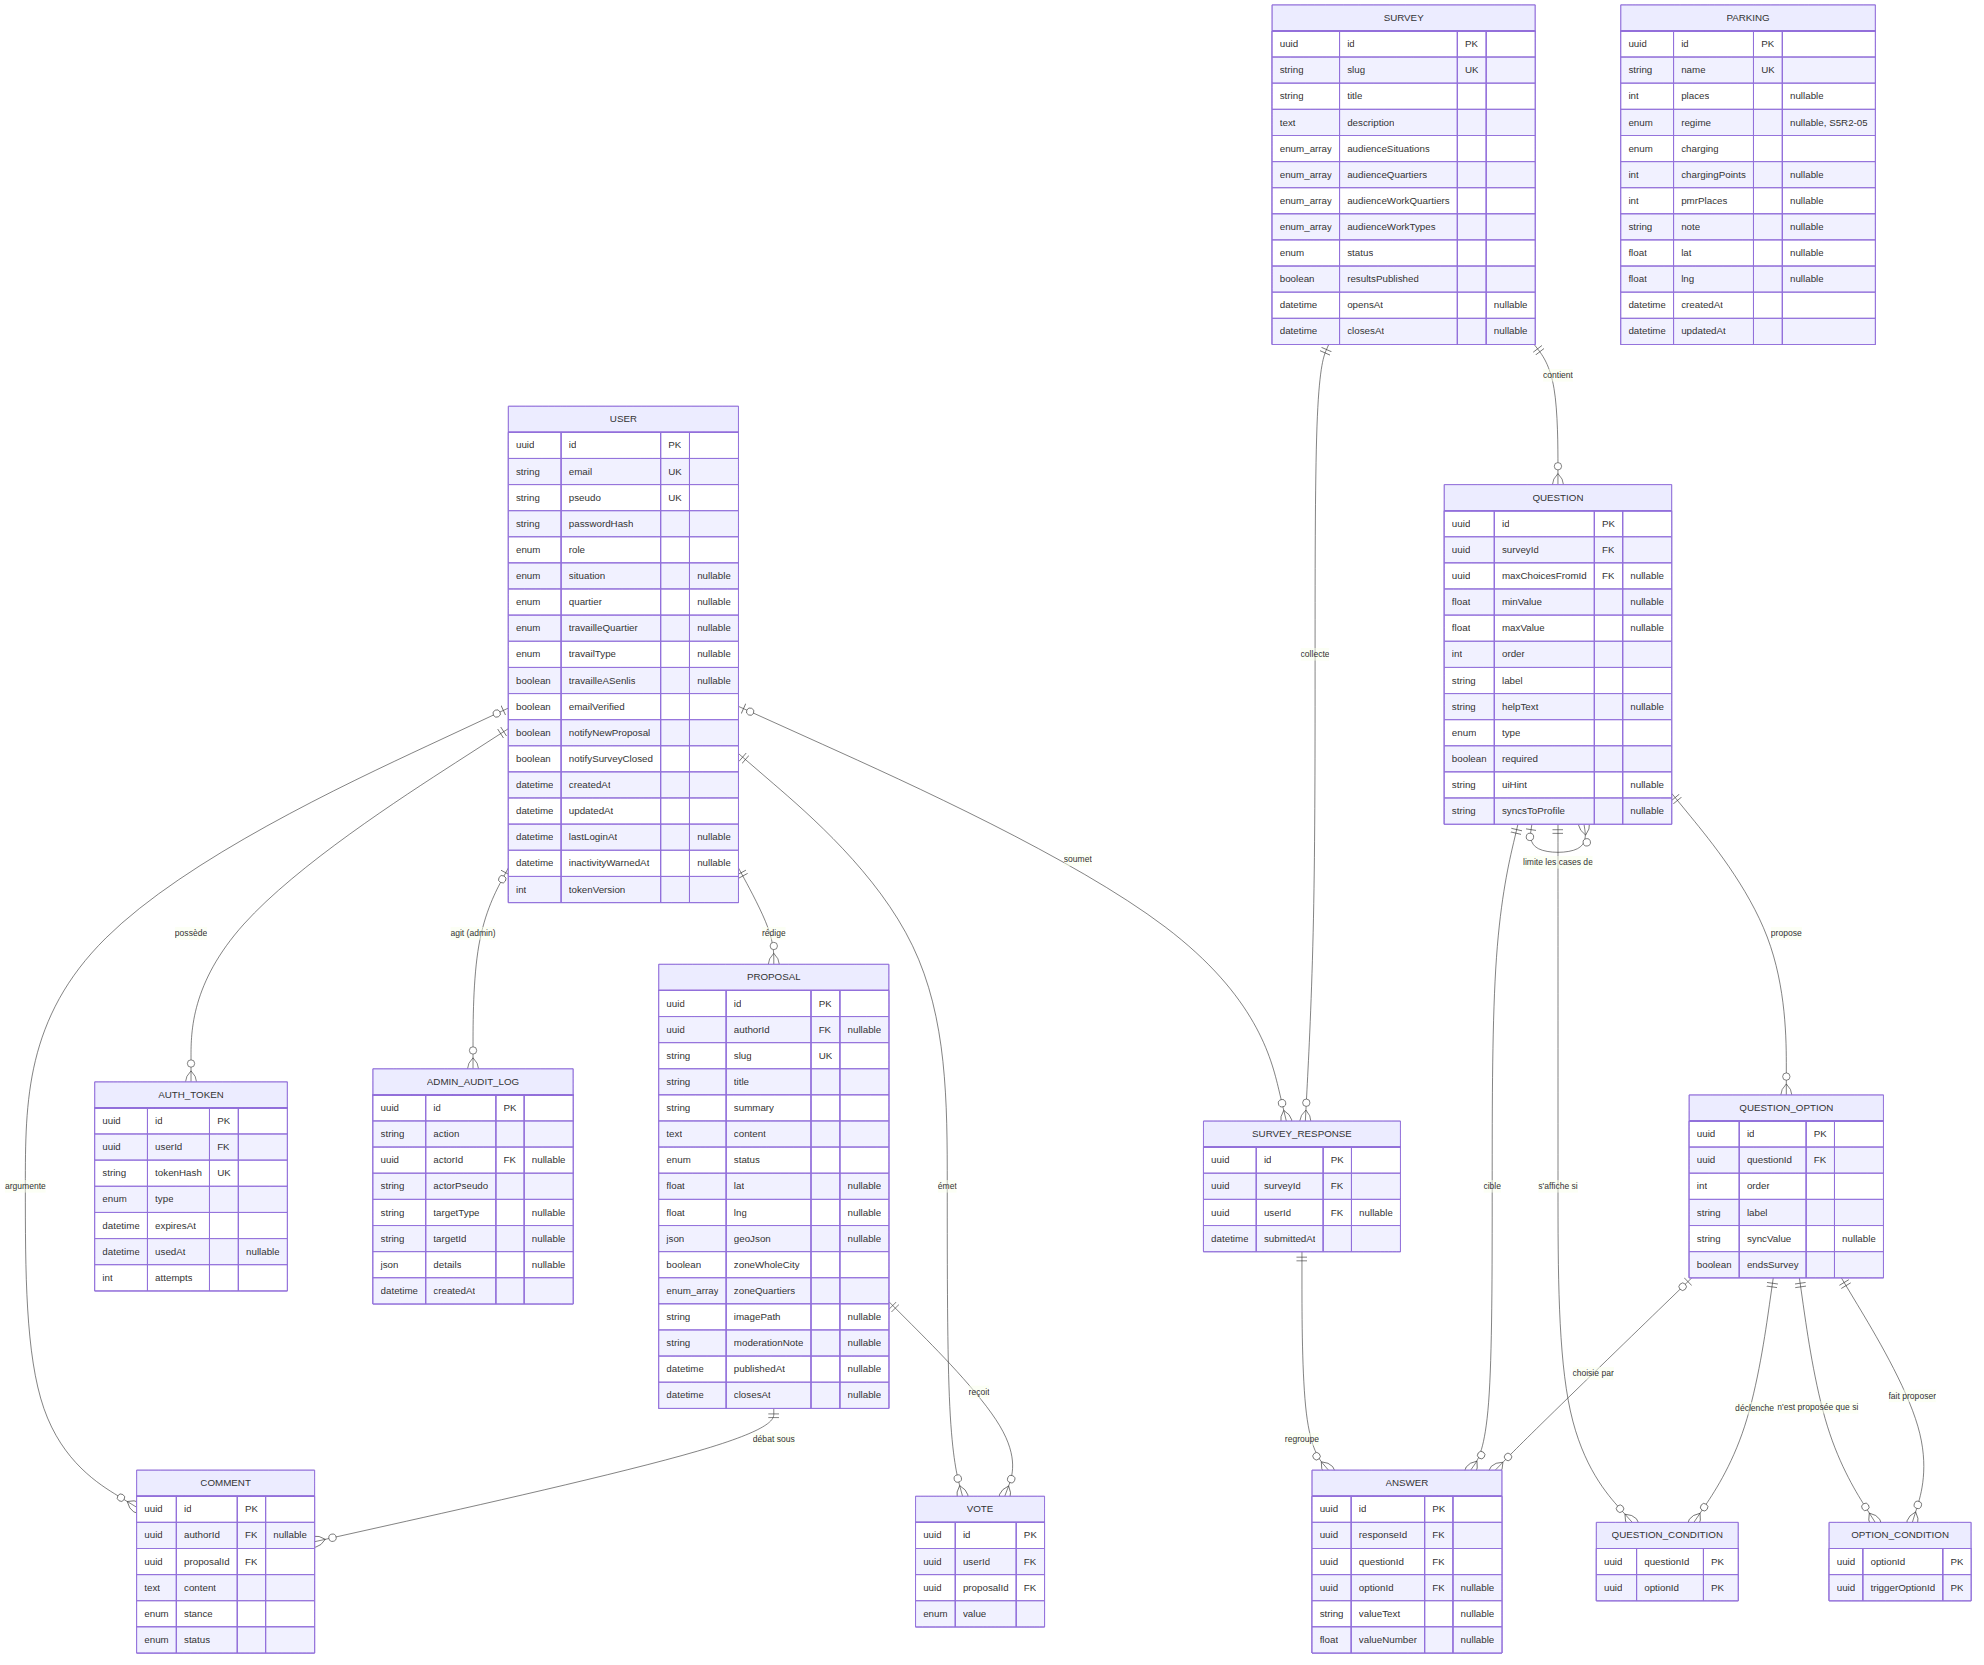
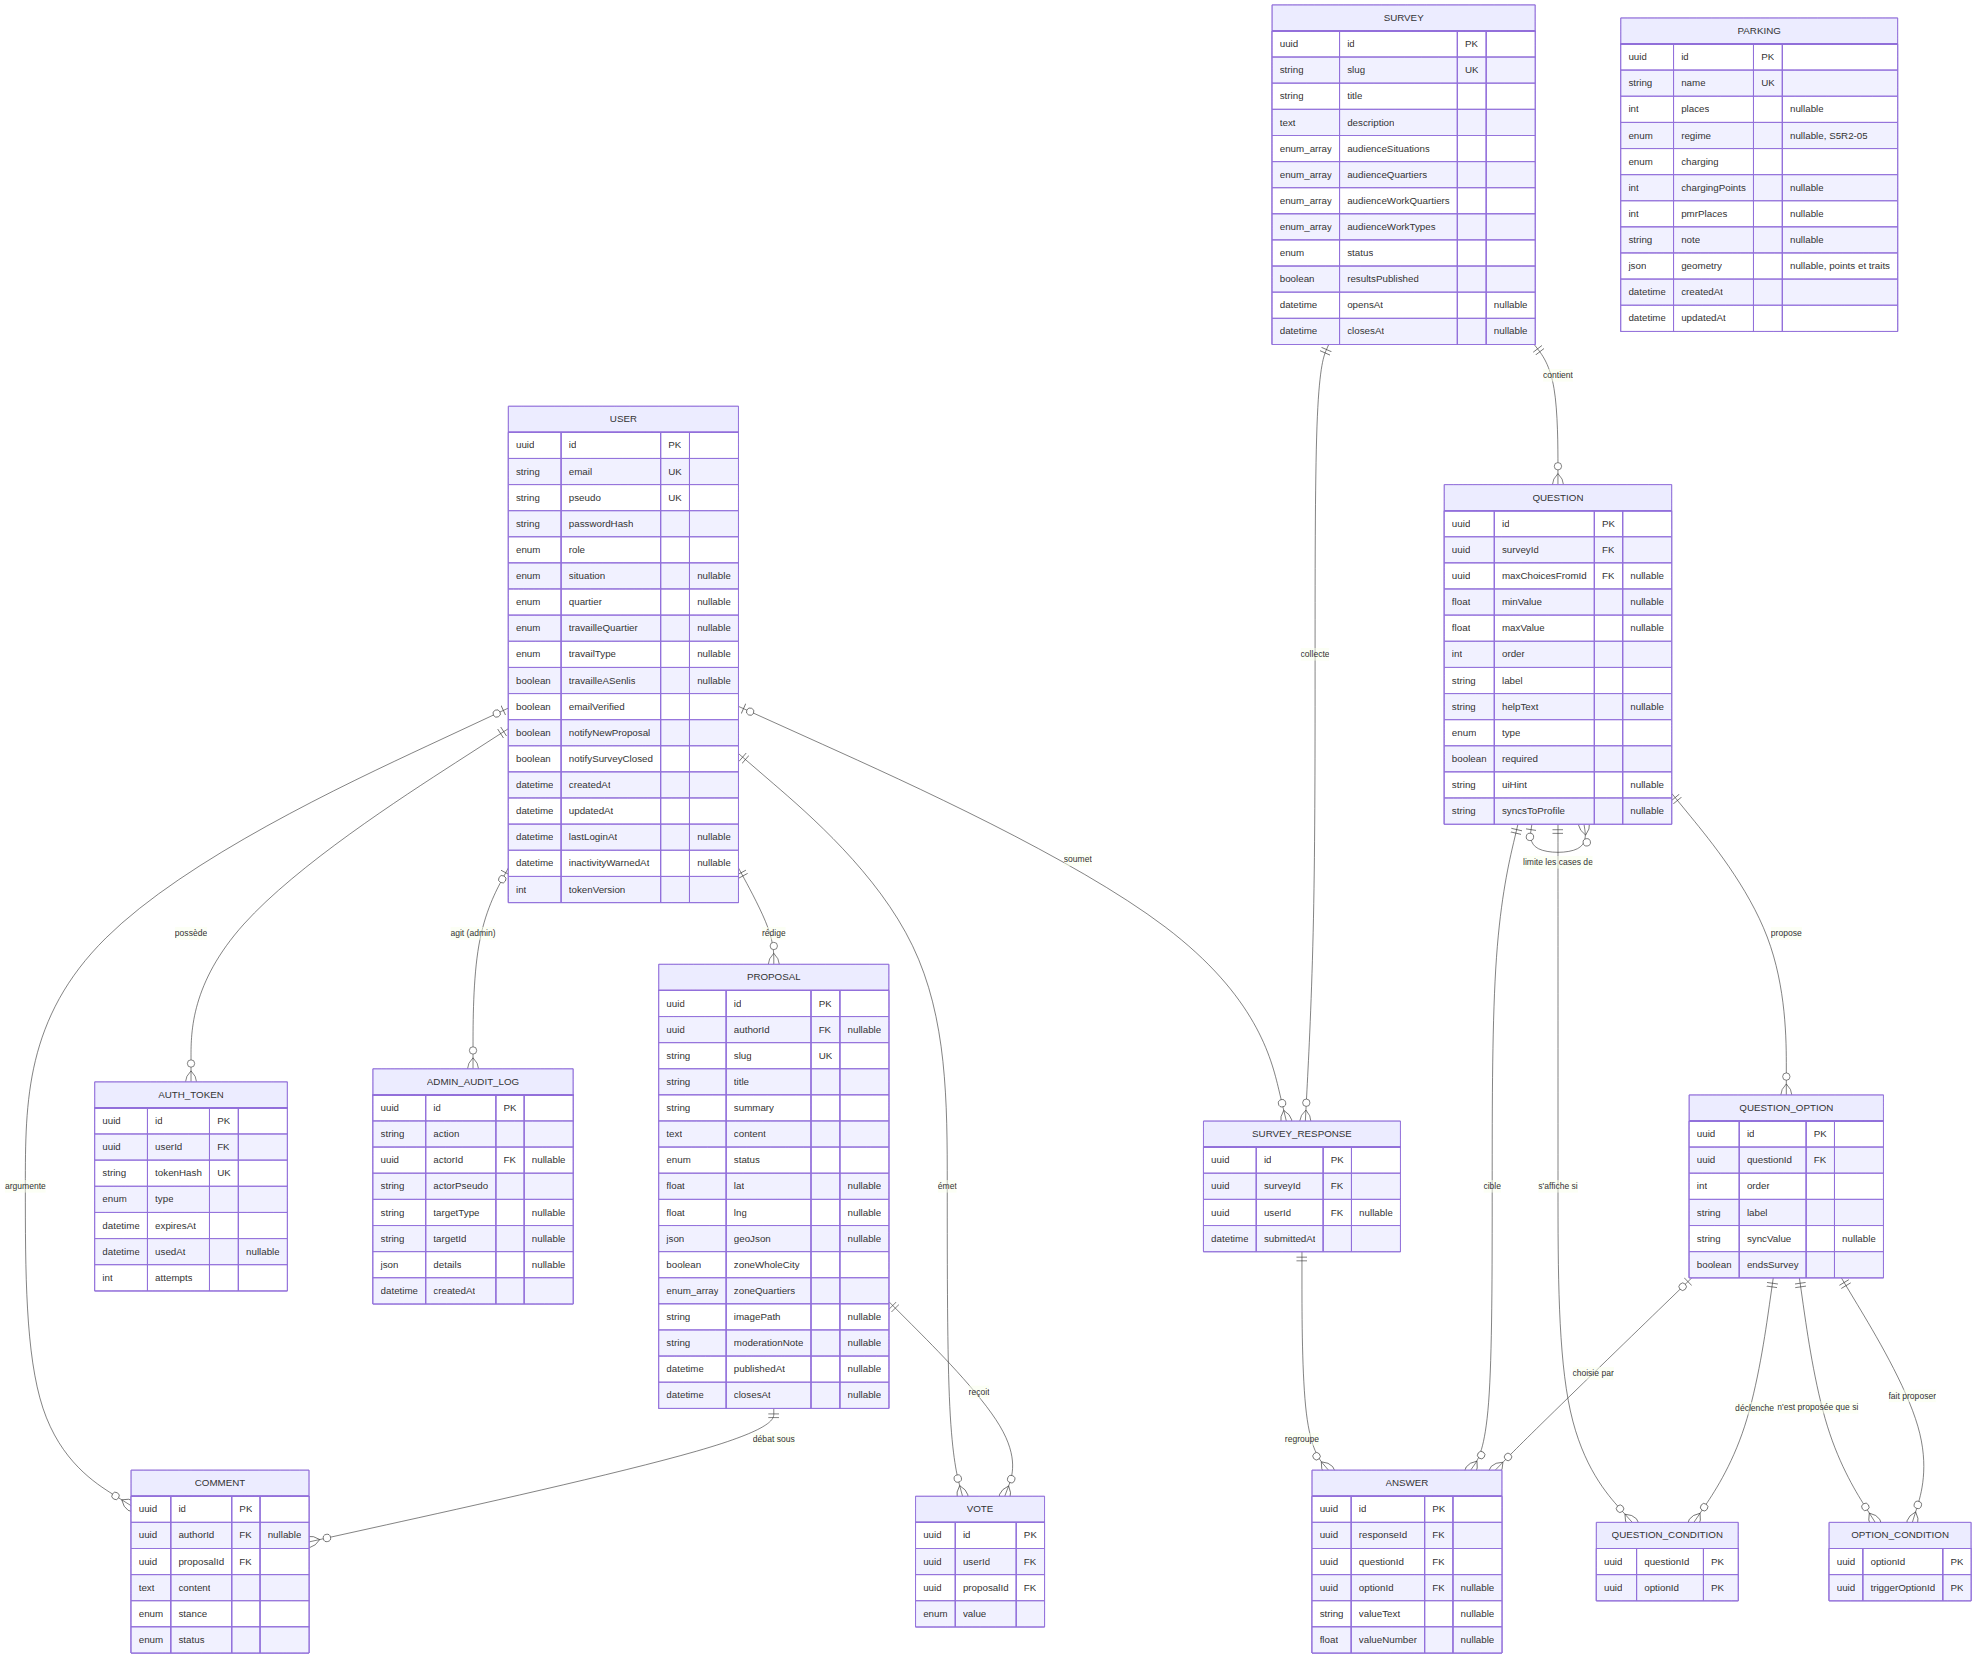
docs: parkings — plusieurs emplacements et traits (recette du 20/10)

Changed region(s): [[0.8125, 0.0, 0.9688, 0.2186], [0.0625, 0.8745, 0.1875, 0.9994]]

diff --git a/CHANGELOG.md b/CHANGELOG.md
@@ -5,6 +5,8 @@ Toutes les évolutions notables du projet sont documentées ici.
 ## [Non publié] — Sprint 5bis
 
 ### Ajouté
+- **Plusieurs emplacements et des traits par parking** (recette du 20/10) : un parking peut avoir plusieurs points (le stade : plusieurs aires) et des traits le long des rues (places en voirie, zone rouge) — colonne `geometry` en GeoJSON (`GeometryCollection` de `Point` et `LineString`), migration `parking_locations` qui reprend les points déjà placés avant de retirer `lat` / `lng` ; validation (50 emplacements au plus, trait de 2 à 200 points, chaque point dans Senlis, collection vide = retiré de la carte) ; écran d'administration : outils « 📍 Ajouter des points » et « 〰 Tracer un trait » (sommets au clic, « Terminer le trait », « Retirer le dernier point », longueur en mètres), liste des emplacements retirables un à un, saisie des coordonnées au clavier, un trait commencé est enregistré avec le reste ; carte publique : un repère par point, les traits de la couleur du régime bordés de blanc, même infobulle ; légende complétée
+- **Parkings gérés par l'administration** (S5R2-05, recette du 08/10) : à la place de l'extraction OpenStreetMap (trop de corrections à faire), une table `Parking` (migration `managed_parkings` : nom unique, places, régime — gratuit, zone rouge, zone verte, gare, durée limitée, parc payant à tarif propre —, recharge aucune / installée / en projet et nombre de points, places PMR, remarque, position) ; API `/api/v1/parkings` (lecture publique des seuls parkings placés, liste complète pour l'équipe, ajout / modification / suppression réservés à un ADMIN, journal d'administration `PARKING_*`, point hors de Senlis refusé — latitude et longitude inversées le plus souvent —, les deux coordonnées ou aucune, nom déjà pris 409 `PARKING_NAME_TAKEN`) ; écran `/admin/parkings` (liste triée, filtre « À placer », formulaire, **placement d'un clic sur la carte** ou saisie des coordonnées, « Retirer de la carte », erreurs à côté du bouton ; Admin-test en lecture seule ; lien depuis la gestion des propositions et la page Carte) ; **19 parkings initiaux** lus sur les documents de la Ville — plan des parkings du centre-ville (septembre 2023 : noms, places) et guide du stationnement (janvier 2025 : zones et bornes, qui l'emportent en cas d'écart) — insérés par le seed si la table est vide, à placer sur la carte ; sur la carte, repères par régime (lettre et couleur du plan de la Ville, éclair pour une borne), infobulle complète, **légende et tarifs 2025** sous la carte avec la mention « tarifs indicatifs » ; extraction OpenStreetMap et compléments retirés de `public/data` (script et fonctions gardés) ; mentions légales mises à jour
 - **Répondants de démonstration** (demande du 14/10) : `npm run seed:demo` crée 20 citoyen·nes fictifs aux profils variés — Centre historique, chacun des autres quartiers (Saint-Vincent compris), autres villes, travail dans le centre ou ailleurs, commerçant·e ou salarié·e — qui répondent aux enquêtes ouvertes (ou à une seule : `--enquete <slug>`, même clôturée, rouverte le temps du script) et votent sur les propositions publiées ; chaque parcours suit le moteur du questionnaire (questions et options affichées seulement, réponses de profil conformes à la fiche) et passe par la vraie route de l'API ; choix « au hasard » reproductibles ; `--supprimer` efface comptes, réponses et votes démo ; le limiteur général (100 requêtes / minute) laisse passer le script grâce à un interrupteur interne au processus (`app.locals.bypassRateLimit`, inaccessible depuis le réseau — 429 constaté au premier essai) ; refusé en production ; comptes `@demo.senlis-participatif.test`, mot de passe `DemoSenlis123!`
 - **Graphiques des résultats d'enquête** (S5R2-04, recette du 08/10) : Chart.js (`chart.js` 4, `react-chartjs-2` 5, MIT) sur la page publique des résultats et sur les résultats détaillés de l'administration (composant commun `ResultChart`) — barres horizontales par défaut (une teinte, Bleu Nonette, % des personnes concernées, infobulle « N réponses — x % ») ; bouton « Secteurs » seulement quand il est juste (réponse unique, 3 à 5 options, aucune option conditionnelle), avec une part grise « Sans réponse » pour que le tout fasse bien 100 % des personnes concernées ; 5 couleurs proches de la charte, dans un ordre fixe vérifié pour les daltonismes ; les nombres restent en texte dans un vrai tableau sous chaque graphique (le dessin est décrit aux lecteurs d'écran), pourcentages à la française ; intitulés longs sur plusieurs lignes (plus courtes sur téléphone) ; animation coupée si « réduire les animations » ; graphique redessiné à l'impression ; Chart.js chargé seulement avec les pages de résultats (fichier à part de ~58 ko compressés, vérifié par un test) ; anciennes barres CSS (`.result-bar`) retirées ; boutons flottants (cerf, ♿) masqués à l'impression ; graphiques remplacés par une doublure dans les tests (`test-setup.js`, jsdom ne dessine pas)
 - **Le centre en deux quartiers** (S5R2-06, décisions des 09 et 12/10) : nouveau quartier « Quartier Saint-Vincent » (`SAINT_VINCENT`, migration `saint_vincent`) à côté du Centre historique, accepté partout — inscription et profil (« un autre quartier de Senlis (dont Saint-Vincent) »), lieu de travail, zone d'une proposition, public visé et questions de profil des enquêtes ; liste des quartiers commune à l'API (`lib/quartiers.js`) ; profils existants inchangés ; contours repérés par quartier (`properties.quartier`, `quartierOfFeature`) et non plus par code IRIS ; outil d'administration `/admin/quartiers` pour tracer Saint-Vincent sur la carte, plan municipal en surimpression (image restée sur l'ordinateur, transparence et calage), tracé au clic ou au clavier, découpage exact du « Centre Ville » INSEE (`polygon-clipping`, MIT : le tracé qui déborde du centre est ignoré et mesuré), téléchargement du nouveau fichier des quartiers ; couleurs inchangées (Centre historique doré, Saint-Vincent gris comme les autres quartiers)

diff --git a/16-kanban-issues-complet.md b/16-kanban-issues-complet.md
@@ -56,6 +56,8 @@
 >
 > **S5R2-05 livrée** (14/10/2026) : table `Parking` (migration `managed_parkings`, régimes `GRATUIT`, `ZONE_ROUGE`, `ZONE_VERTE`, `GARE`, `DUREE_LIMITEE` et `PARC_PAYANT` — ajouté pour Brunehaut, tarif propre), API `/parkings` (lecture publique des parkings placés, liste complète pour l'équipe, écriture ADMIN, journal d'administration) ; écran `/admin/parkings` (liste, filtre « À placer », formulaire, **placement par clic sur la carte** ou saisie des coordonnées ; Admin-test en lecture seule) ; **19 parkings initiaux** lus sur les documents de la Ville (plan 2023 : noms, places ; guide 2025 : zones et bornes, qui l'emportent en cas d'écart — ex. square des États-Unis passé de zone rouge à zone verte), à placer sur la carte ; repères par régime (lettre + couleur, éclair pour la recharge), infobulles complètes, **légende et tarifs 2025** sous la carte (« tarifs indicatifs ») ; extraction OpenStreetMap retirée de `public/data` (script gardé) ; mentions légales mises à jour.
 >
+> **Complément S5R2-05** (20/10/2026, recette) : **plusieurs emplacements par parking** (le stade : plusieurs aires) et **des traits le long des rues** (places en voirie, zone rouge) — colonne `geometry` GeoJSON (points et traits), migration `parking_locations` qui reprend les points déjà placés ; outils « Ajouter des points » / « Tracer un trait » dans l'écran d'administration, traits de la couleur du régime sur la carte publique.
+>
 > **Légende** : ✅ livré (mergé sur `dev`) · 🔶 partiellement livré · sans marque = à faire.
 >
 > **Gabarit d'issue** (à enregistrer comme template GitHub) : *Contexte* (lien cahier des charges) · *Critères d'acceptation* (cases à cocher) · *Definition of Done rappelée*.

diff --git a/08-merise-mcd-mld-mpd.md b/08-merise-mcd-mld-mpd.md
@@ -83,8 +83,7 @@ flowchart TB
     points de recharge
     places PMR
     remarque
-    latitude
-    longitude"]
+    emplacements (points, traits)"]
 
     aPOSSEDE(["POSSÈDE"])
     aREDIGE(["RÉDIGE"])
@@ -180,7 +179,7 @@ QuestionOption (id, label, "order", syncValue, endsSurvey, #questionId)
 AdminAuditLog (id, action, actorPseudo, targetType, targetId, details, createdAt, #actorId)
      PK : id · FK : actorId → User(id) [NULLABLE] · INDEX : createdAt
 
-Parking (id, name, places, regime, charging, chargingPoints, pmrPlaces, note, lat, lng, createdAt, updatedAt)   ← S5R2-05
+Parking (id, name, places, regime, charging, chargingPoints, pmrPlaces, note, geometry, createdAt, updatedAt)   ← S5R2-05 (geometry : 20/10)
      PK : id · UNIQUE : name — entité isolée (aucune association) : la carte la lit, l'administration la tient
 
 SurveyResponse (id, submittedAt, #surveyId, #userId)
@@ -387,8 +386,7 @@ CREATE TABLE "Parking" (
   "chargingPoints" INTEGER,
   "pmrPlaces"      INTEGER,
   "note"           TEXT,
-  "lat"            DOUBLE PRECISION,               -- NULL = pas encore placé
-  "lng"            DOUBLE PRECISION,
+  "geometry"       JSONB,                          -- GeoJSON : points et traits (20/10) ; NULL = pas encore placé
   "createdAt"      TIMESTAMP(3) NOT NULL DEFAULT CURRENT_TIMESTAMP,
   "updatedAt"      TIMESTAMP(3) NOT NULL
 );

diff --git a/03-dictionnaire-de-donnees.md b/03-dictionnaire-de-donnees.md
@@ -193,7 +193,7 @@
 | chargingPoints | Int | NULL | Nombre de points de recharge, si connu (effacé si AUCUNE) |
 | pmrPlaces | Int | NULL | Places réservées aux personnes à mobilité réduite |
 | note | String | NULL, ≤ 300 | Remarque (ex. règles du disque, tarif propre) |
-| lat / lng | Float | NULL, les deux ou aucun, dans un cadre autour de Senlis | Position sur la carte ; NULL = pas encore placé (absent de la carte publique) |
+| geometry | Json (GeoJSON) | NULL | Emplacements (recette du 20/10) : `GeometryCollection` de `Point` (une aire) et de `LineString` (places le long d'une rue, 2 à 200 points), coordonnées `[longitude, latitude]` dans Senlis, 50 au plus ; NULL = pas encore placé (absent de la carte publique). Remplace `lat` / `lng` (migration `parking_locations`) |
 | createdAt / updatedAt | DateTime | | Dates de création et de modification |
 
 > Aucune donnée personnelle. Données initiales : `api/prisma/data/parkings-initiaux.js` (19 parkings, plan 2023 + guide 2025), insérées par le seed si la table est vide.

diff --git a/01-cahier-des-charges-v1.4.md b/01-cahier-des-charges-v1.4.md
@@ -301,7 +301,7 @@ Note : les animations CSS de la mascotte utilisent exclusivement des propriété
 | GET | /parkings | 🔓 | Parkings **placés** sur la carte (S5R2-05) |
 | GET | /parkings/admin | 🛠 | Tous les parkings, placés ou non (Admin-test : consultation) |
 | POST | /parkings | 👑 | Ajouter un parking (nom seul possible) |
-| PATCH | /parkings/:id | 👑 | Modifier, placer (`lat`/`lng`) ou retirer de la carte (`null`) |
+| PATCH | /parkings/:id | 👑 | Modifier, placer — `geometry` : GeoJSON, plusieurs points et traits le long des rues (20/10) — ou retirer de la carte (`null`) |
 | DELETE | /parkings/:id | 👑 | Supprimer |
 | GET | /health | 🔓 | Health check (API + base) |
 

diff --git a/02-diagramme-erd.md b/02-diagramme-erd.md
@@ -65,8 +65,7 @@ erDiagram
         int chargingPoints "nullable"
         int pmrPlaces "nullable"
         string note "nullable"
-        float lat "nullable"
-        float lng "nullable"
+        json geometry "nullable, points et traits"
         datetime createdAt
         datetime updatedAt
     }
